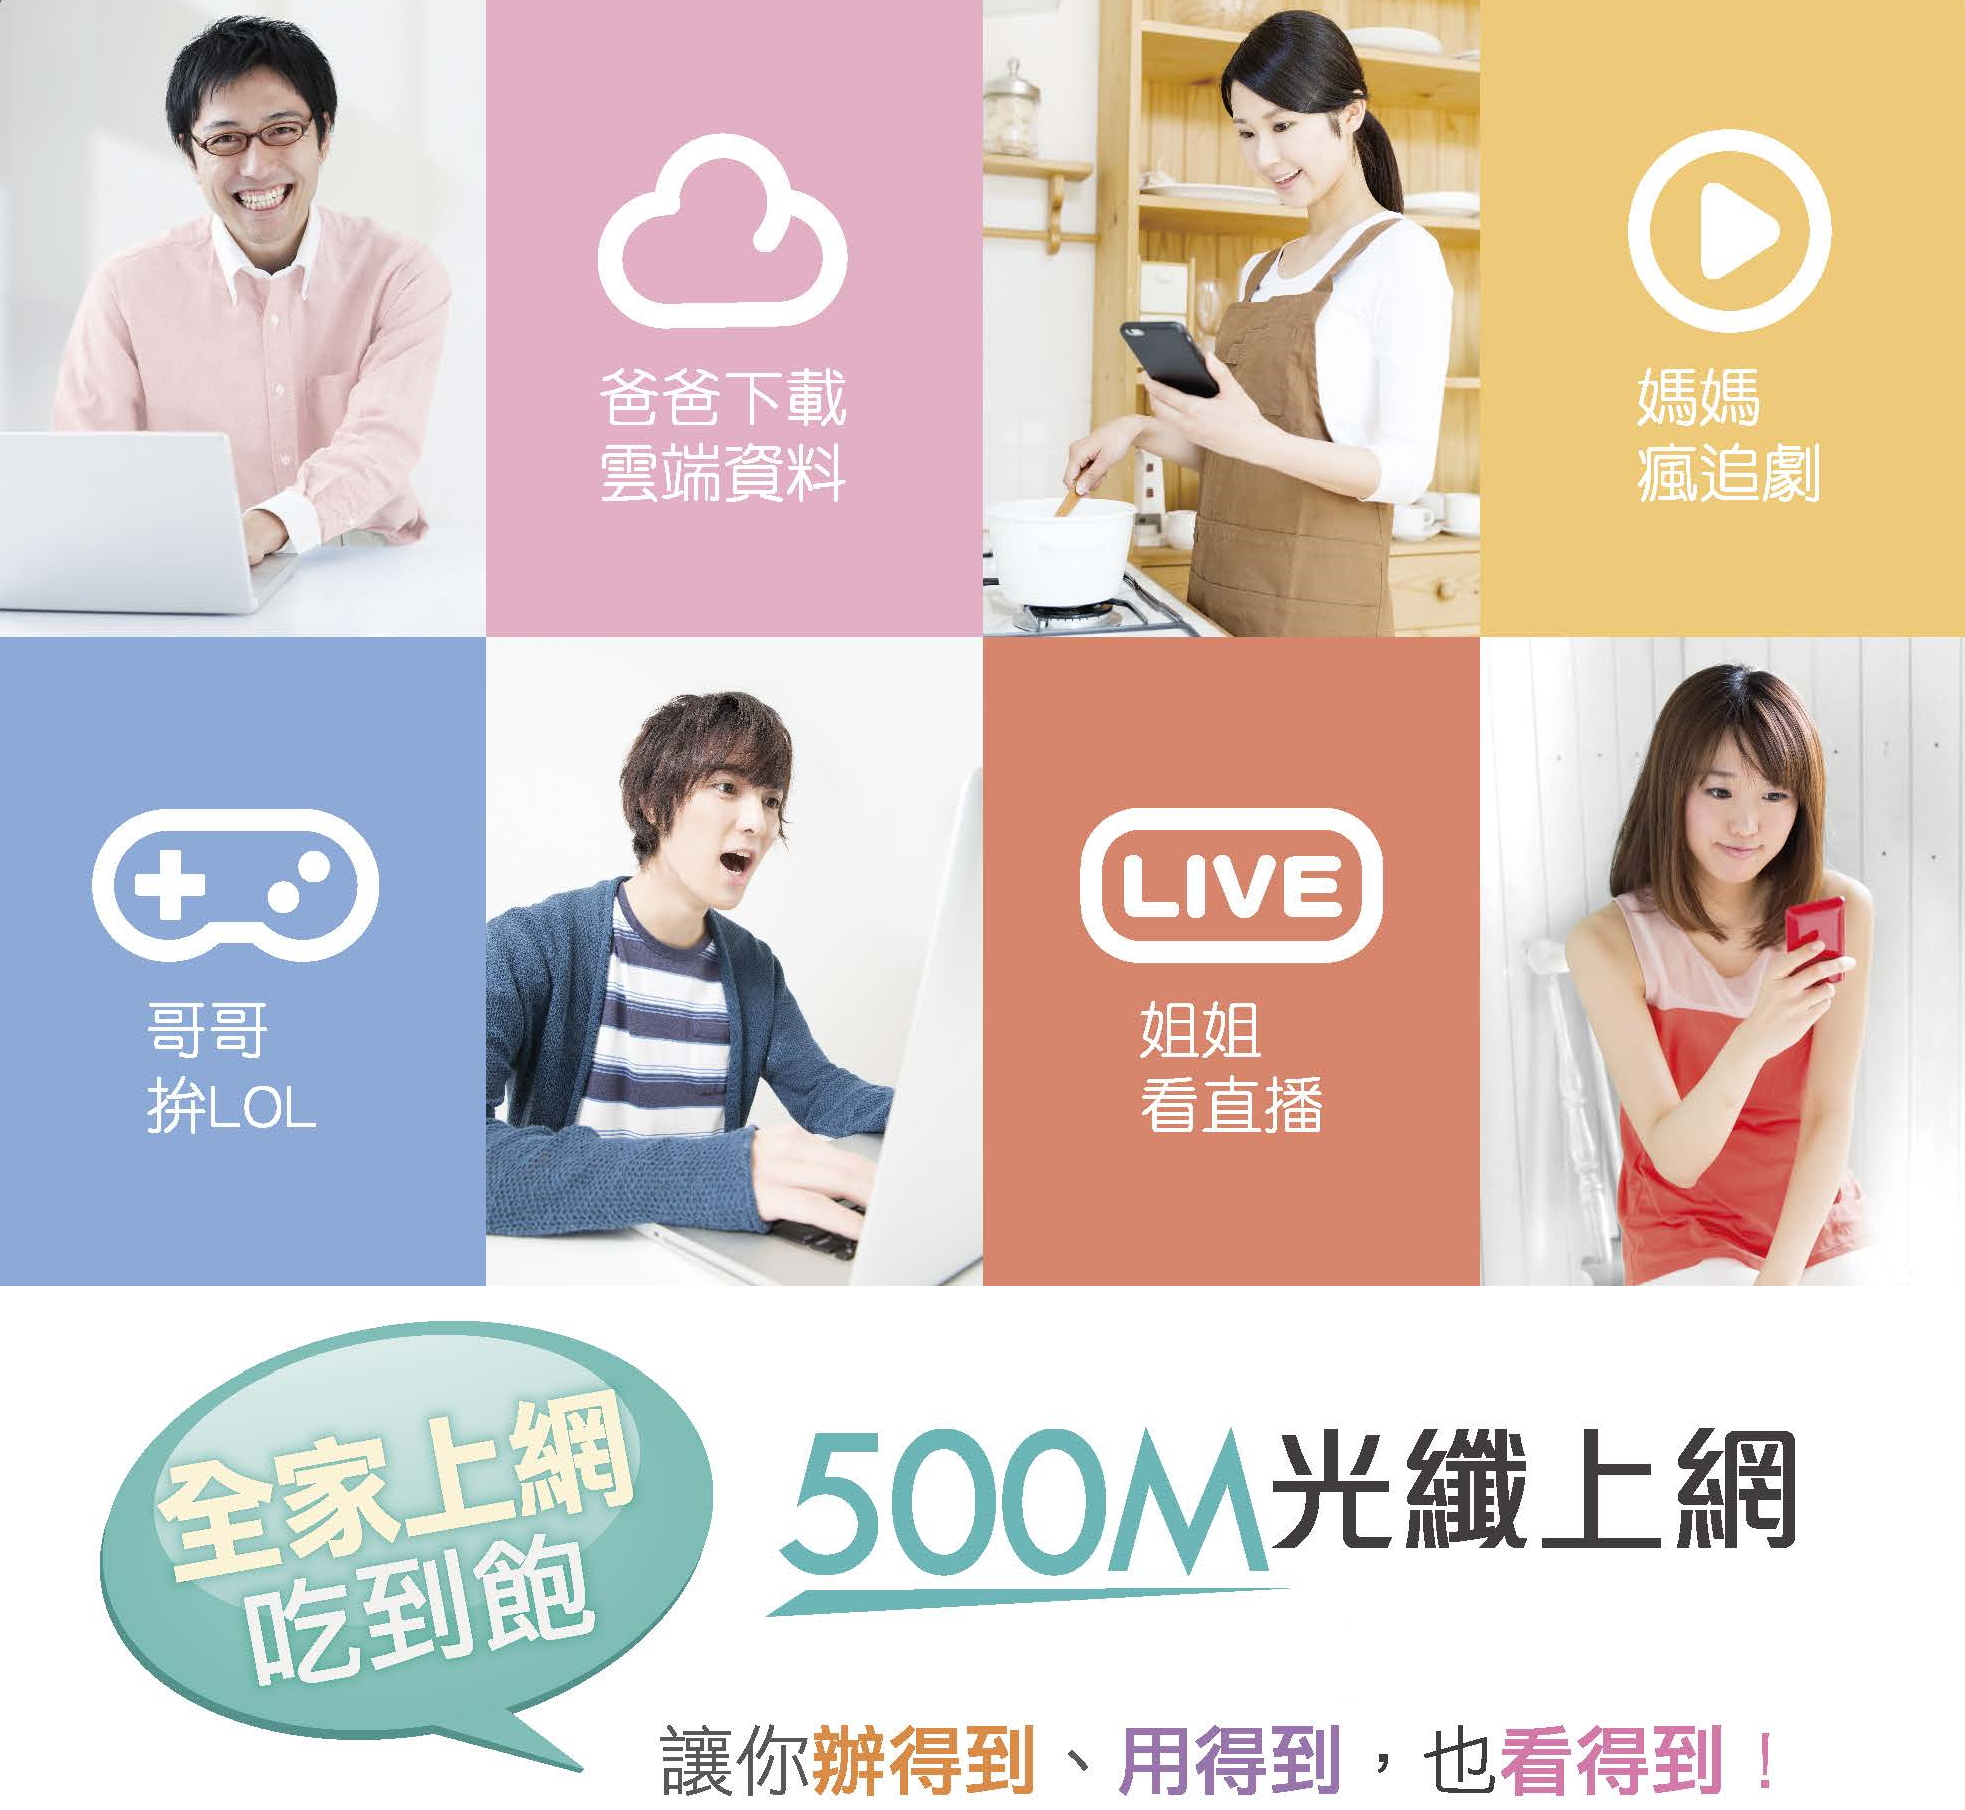
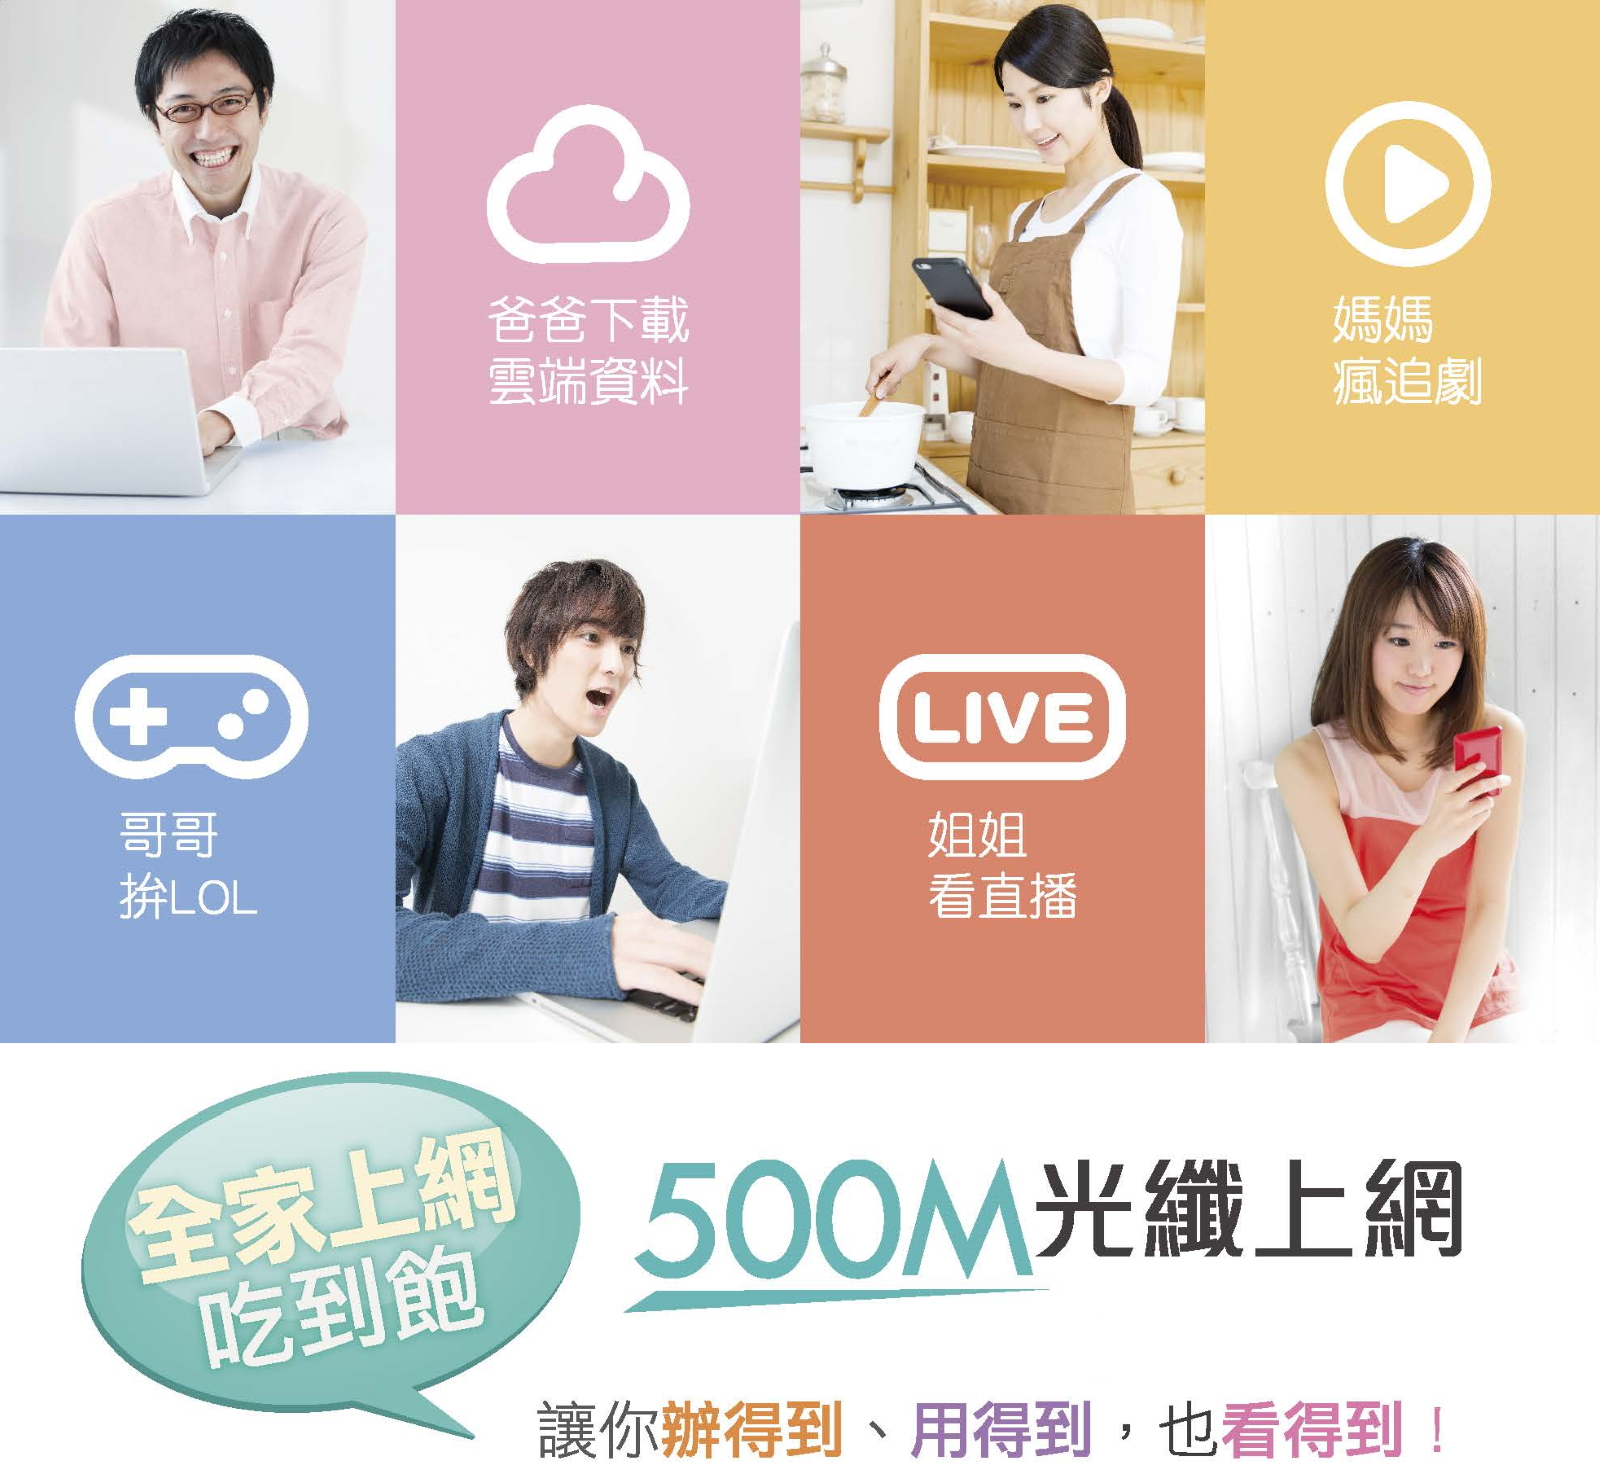
Resize Picture DM-1.JPG

diff --git a/index.html b/index.html
@@ -67,7 +67,7 @@ aside .PhoneLink{z-index:99;position:fixed;bottom:10px;left:10px}
 		</a>
 	</header>
 	<section class='imgblock'>
-		<amp-img alt='凱擘大寬頻專員廖小姐:光纖上網' src='dm-1.jpg' width='1965' height='1810' layout='responsive'>
+		<amp-img alt='凱擘大寬頻專員廖小姐:光纖上網' src='dm-1.jpg' width='1600' height='1470' layout='responsive'>
 			<noscript>
 				<img alt='凱擘大寬頻專員廖小姐:光纖上網' src='dm-1.jpg' />
 			</noscript>
